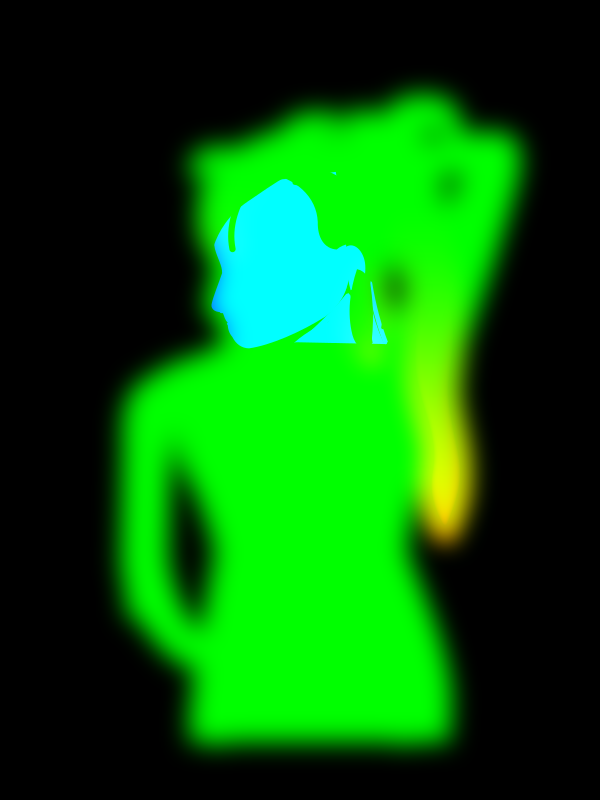
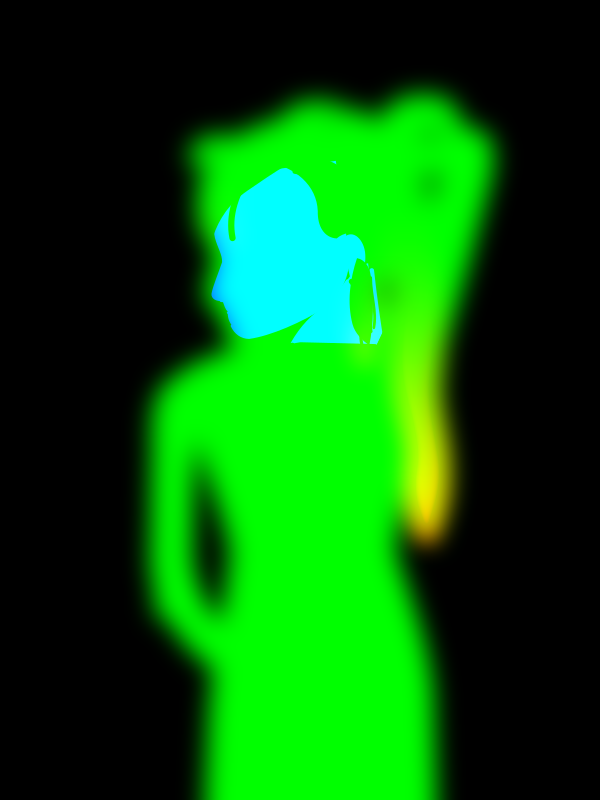
wallpaper: sultry round 4 — slip-gown back view that reads clothed at any size
Higher, softer scoop (low point mid-back) with a bright continuous binding;
black-satin straps with lit piping on both shoulders, the far one included;
gown lifted to 0.28 with long fold highlights. Torso narrowed 15 % about the
spine, faint short spine groove, shoulder-blade marks dropped (one soft plane
on the turned side). Head lifted with a visible side neck, lit nape and a
1-dot jaw gap off the shoulder; one eye only, no blush gradients, darker
lips. Tapered raised forearm, four slim fingers + thumb in the hair; slimmer
hanging arm with an elbow crease, hand tucked behind the hip. Whole drawing
scaled 0.92 so the hip is in frame. gen_figure: per-style posterise (sultry:
0.28 / 0.5 / 0.68 / 0.85). Earring bead hangs against the hair lock.

Changed region(s): [[0.15, 0.0938, 0.9, 1.0]]

diff --git a/plasma/wallpapers/org.nothing.dots/contents/ui/GlyphField.qml b/plasma/wallpapers/org.nothing.dots/contents/ui/GlyphField.qml
@@ -102,7 +102,7 @@ Item {
     readonly property point clipUV: _style === "cute" ? Qt.point(228.0 / 600, 214.4 / 800)     // hair-clip end
                                   : _style === "glam" ? Qt.point(399.67 / 600, 403.02 / 800)   // earring
                                   : _style === "casual" ? Qt.point(371.76 / 600, 301.37 / 800) // earring (casual)
-                                  : Qt.point(354.65 / 600, 305.92 / 800)                      // earring (sultry: printed by make_sultry.py)
+                                  : Qt.point(361.14 / 600, 296.48 / 800)                      // earring (sultry: printed by make_sultry.py)
     readonly property point redPos: showFigure
         ? Qt.point(figRect.x + (0.5 + (clipUV.x - 0.5) * (1 + breathe)) * figRect.width,
                    figRect.y + (1 + (clipUV.y - 1) * (1 + breathe)) * figRect.height)

diff --git a/wallpapers/glyphgirl/gen_figure.py b/wallpapers/glyphgirl/gen_figure.py
@@ -32,6 +32,9 @@ GROUPS = ["hair-back", "neck", "body", "rim", "hair-curtain", "hand", "face", "e
           "hair-side", "bangs", "ahoge", "clip"]
 # hair-curtain sway starts higher where the hair is lifted (sultry: from her hand, nape tendrils)
 CURTAIN_RAMP = {"sultry": (200, 560)}
+# Nothing-style posterise: snap luminance to a few discrete dot sizes (0 = missing dot and
+# >= 0.97 forced highlights are kept as they are)
+QUANT = {"sultry": (0.28, 0.5, 0.68, 0.85)}
 
 
 def variant(show):
@@ -111,6 +114,12 @@ def bake(style):
     lum_open = lum_open * (1 - contour) + 0.45 * contour
     lum_closed = lum_closed * (1 - contour) + 0.45 * contour
     face_mask = small(np.clip(face_region + visible("neck"), 0, 1))
+    if style in QUANT:
+        lv = np.array(QUANT[style], np.float32)
+        def quant(l):
+            q = lv[np.abs(l[..., None] - lv).argmin(-1)]
+            return np.where(l < 0.03, 0.0, np.where(l >= 0.97, l, q)).astype(np.float32)
+        lum_open, lum_closed = quant(lum_open), quant(lum_closed)
 
     S = small(sil)
     fig = np.dstack([small(lum_open), small(lum_closed), S])

diff --git a/wallpapers/glyphgirl/make_sultry.py b/wallpapers/glyphgirl/make_sultry.py
@@ -14,8 +14,8 @@ import math
 import os
 
 HERE = os.path.dirname(os.path.abspath(__file__))
-HEAD = (294, 294, -8, 1.35)       # translate x, y, rotate deg, scale  (local head frame -> canvas)
-BEAD_LOCAL = (44, 35)
+HEAD = (294, 282, -8, 1.35)       # translate x, y, rotate deg, scale  (local head frame -> canvas)
+BEAD_LOCAL = (49, 37)
 FRAME = (24, 0, 0.92)       # whole drawing: translate x, y, scale (keeps the hip flare in frame)
 
 
